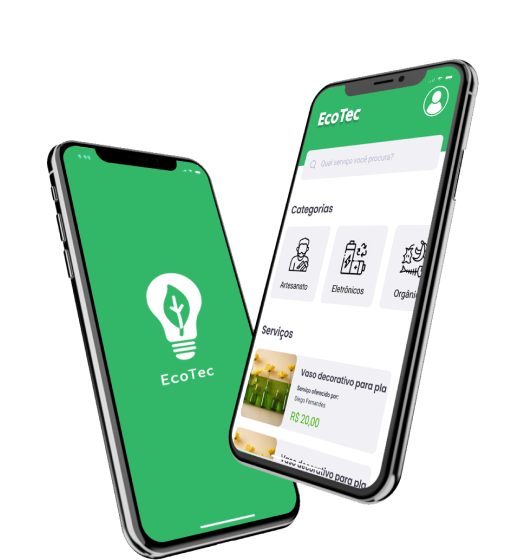
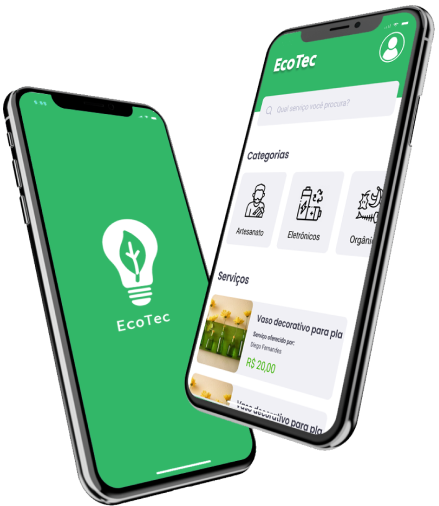
responsividade do site

diff --git a/EcoTecWebPage/index.html b/EcoTecWebPage/index.html
@@ -12,45 +12,50 @@
 
   <body>
     <div class="container">
-      <header class="header">
-        <img class="greenwaveImg" src="./images/greenwave.png" alt="greenwave-img" />
-        <img class="appImg" src="./images/appimage.png" alt="appWorking-img" />
-        <div class="firstDiv">
-          <img class="lampImg" src="./images/lamp.png" alt="lamp-img" />
-          <h1 class="nameApp">EcoTec</h1>
-        </div>
-        <p class="descriptionApp">Sustentabilidade e transformação social</p>
-        <p class="instructionApp">Baixe o aplicativo e conheça um imenso catálogo de produtos recicláveis!</p>
-        <img class="platformAvaiable" src="./images/playapplestore.png" alt="platformsAvaiable-img" />
-      </header>
-      <section>
-        <div class="mainContent">
-          <div class="contentSection">
-            <div class="card">
-              <img src="./images/maosdadas.png" alt="maosDadas-img" class="cardImg item1" />
-              <h1 class="cardTitle">Pessoas precisam de você!</h1>
-              <p class="cardDescription">
-                O EcoTec está comprometido com um viés de transformação social, em nosso aplicativo destacamos onde você pode encontrar pessoas em situação de vulnerabilidade social que não tem acesso
-                à internet e tecnologias.
-              </p>
+      <header>
+        <div class="left-column">
+          <div class="lampNtitleNsubtitle">
+            <div class="lampNtitle">
+              <img class="lampImg" src="./images/lamp.png" alt="lamp-img" />
+              <h1 class="title">EcoTec</h1>
             </div>
-            <div class="card">
-              <img src="./images/maorecicla.png" alt="maosquereciclam-img" class="cardImg" />
-              <h1 class="cardTitle">Você faz reciclagem?</h1>
-              <p class="cardDescription">
-                Nosso aplicativo é uma plataforma que ajuda a dar visibilidade ao trabalho de artesãos e catadores que realizam trabalham com o reaproveitamento de materiais. Baixe nosso aplicativo e
-                faça seu cadastro agota mesmo!
-              </p>
-            </div>
-            <div class="card">
-              <img src="./images/recicla.png" alt="reciclagem-img" class="cardImg item1" />
-              <h1 class="cardTitle">Encontre produtos incríveis!</h1>
-              <p class="cardDescription">
-                Se você procura uma forma de reutizar seus materiais nosso app pode te ajudar a encontrar uma pessoa capaz de criar algo incrivel! Você também pode ajudar quem mais precisa de você, é
-                só baixar o nosso app e dar uma olhado no catálogo.
-              </p>
+            <div class="subtitle">
+              <p class="descriptionApp">Sustentabilidade e transformação social</p>
             </div>
           </div>
+          <div class="instructionNplatformImg">
+            <p class="instructionApp">Baixe o aplicativo e conheça um imenso catálogo de produtos recicláveis!</p>
+            <img class="platformImg" src="./images/playstore.png" alt="platformAvaiable-img" />
+          </div>
+        </div>
+        <div class="right-column">
+          <img class="appImg" src="./images/appimage.png" alt="app-img" />
+        </div>
+      </header>
+      <section>
+        <div class="card">
+          <img src="./images/maosdadas.png" alt="maosDadas-img" class="cardImg item1" />
+          <h1 class="cardTitle">Pessoas precisam de você!</h1>
+          <p class="cardDescription">
+            O EcoTec está comprometido com um viés de transformação social, em nosso aplicativo destacamos onde você pode encontrar pessoas em situação de vulnerabilidade social que não tem acesso à
+            internet e tecnologias.
+          </p>
+        </div>
+        <div class="card">
+          <img src="./images/maorecicla.png" alt="maosquereciclam-img" class="cardImg" />
+          <h1 class="cardTitle">Você faz reciclagem?</h1>
+          <p class="cardDescription">
+            Nosso aplicativo é uma plataforma que ajuda a dar visibilidade ao trabalho de artesãos e catadores que realizam trabalham com o reaproveitamento de materiais. Baixe nosso aplicativo e faça
+            seu cadastro agota mesmo!
+          </p>
+        </div>
+        <div class="card">
+          <img src="./images/recicla.png" alt="reciclagem-img" class="cardImg item1" />
+          <h1 class="cardTitle">Encontre produtos incríveis!</h1>
+          <p class="cardDescription">
+            Se você procura uma forma de reutizar seus materiais nosso app pode te ajudar a encontrar uma pessoa capaz de criar algo incrivel! Você também pode ajudar quem mais precisa de você, é só
+            baixar o nosso app e dar uma olhado no catálogo.
+          </p>
         </div>
       </section>
       <footer class="footer">

diff --git a/EcoTecWebPage/style.css b/EcoTecWebPage/style.css
@@ -3,121 +3,134 @@
   padding: 0;
   box-sizing: border-box;
 }
-.header {
-  position: relative;
+header {
   width: 100%;
+  background-color: #289253;
+  display: flex;
+  flex-direction: row;
+  flex-wrap: wrap;
+  justify-content: center;
+  align-items: center;
+}
+.left-column {
+  width: 50%;
+  min-width: 280px;
   height: 600px;
-  background-color: #32b768;
-}
-.greenwaveImg {
-  width: 950px;
-  height: 600px;
-  position: absolute;
-  right: 0px;
-}
-.appImg {
-  width: 525px;
-  height: 562px;
-  position: absolute;
-  right: 40px;
-  bottom: 60px;
-}
-.nameApp {
-  font-family: "Roboto", sans-serif;
-  font-weight: 700 bold;
-  font-size: 64px;
-  color: #ffffff;
+  display: flex;
+  flex-direction: column;
+  row-gap: 120px;
+  justify-content: center;
+  align-items: center;
 }
 .lampImg {
   width: 75px;
   height: 76px;
+  margin-right: 10px;
 }
-.descriptionApp {
-  position: absolute;
-  top: 198px;
-  left: 162px;
-  padding-left: 30px;
+.title {
   font-family: "Roboto", sans-serif;
-  font-size: 20px;
+  font-weight: 700 bold;
+  font-size: 3.8em;
   color: #ffffff;
 }
-.firstDiv {
-  position: absolute;
-  top: 113px;
-  left: 215px;
-  display: flex;
-  flex-direction: row;
-}
-.instructionApp {
-  width: 417px;
-  height: 51px;
-  position: absolute;
-  top: 323px;
-  left: 157px;
+.subtitle {
   font-family: "Roboto", sans-serif;
   font-size: 20px;
   color: #ffffff;
   text-align: center;
 }
-.platformAvaiable {
-  width: 250px;
-  height: 153px;
-  position: absolute;
-  top: 400px;
-  left: 240px;
-}
-.mainContent {
-  margin-top: 30px;
+.lampNtitle {
   display: flex;
-  justify-content: center;
+  flex-direction: row;
 }
-.contentSection {
-  display: grid;
-  gap: 30px;
-  grid-template-columns: 1fr 1fr 1fr;
+.lampNtitleNsubtitle {
+  min-width: 280px;
+  display: flex;
+  flex-direction: column;
+  justify-content: center;
+  align-items: center;
+  row-gap: 0.9375rem;
+  /* 0.9375rem = 15px */
+}
+.instructionApp {
+  max-width: 425px;
+  font-family: "Roboto", sans-serif;
+  font-size: 20px;
+  color: #ffffff;
+  text-align: center;
+}
+.platformImg {
+  width: 193px;
+  height: 61px;
+}
+.instructionNplatformImg {
+  display: flex;
+  flex-direction: column;
+  justify-content: center;
+  align-items: center;
+  row-gap: 5px;
+}
+.right-column {
+  width: 50%;
+  min-width: 280px;
+  height: 37.5rem;
+  display: flex;
+  flex-direction: column;
+  justify-content: center;
+  align-items: flex-end;
+  padding-right: 6%;
+  background-image: url("./images/greenwave.png");
+  background-position: right;
+}
+.appImg {
+  max-width: 432px;
+  min-width: 280px;
+  width: 70%;
+}
+section {
+  display: flex;
+  flex-wrap: wrap;
+  justify-content: center;
+  margin-top: 30px;
+  gap: 25px;
 }
 .card {
   background-color: #f0f0f5;
   box-shadow: rgba(50, 50, 93, 0.25) 0px 6px 12px -2px, rgba(0, 0, 0, 0.3) 0px 3px 7px -3px;
-  width: 432px;
-  height: 320px;
+  min-width: 260px;
+  max-width: 432px;
+  display: flex;
+  flex-direction: column;
   padding: 15px;
+  margin: 10px;
 }
-.cardImage {
+.cardImg {
   width: 100%;
-  height: 170px;
-}
-.item1 {
-  width: 100%;
-  padding-right: -1px;
-}
-.item2 {
-  width: 100%;
-  padding-right: 15px;
+  height: 45%;
 }
 .cardTitle {
-  display: flex;
-  justify-content: flex-start;
   font-family: "Roboto", sans-serif;
+  text-align: center;
   font-weight: bold;
   color: #207342;
   margin-top: 5px;
-  padding-left: 20px;
 }
 .cardDescription {
-  width: 380px;
-  height: 90px;
+  width: 100%;
   font-weight: 400;
   line-height: 17.58px;
-  display: flex;
   text-align: justify;
   font-family: "Roboto", sans-serif;
   font-size: 15px;
   margin-top: 5px;
-  padding-left: 20px;
   letter-spacing: 0.2px;
 }
 footer {
+  display: flex;
+  justify-content: center;
+  align-items: center;
+  flex-wrap: wrap;
+  text-align: center;
   width: 100%;
   height: 44px;
   margin-top: 40px;
@@ -125,7 +138,34 @@ footer {
   font-family: "Roboto", sans-serif;
   font-size: 14px;
   line-height: 16.41px;
-  display: flex;
-  justify-content: center;
-  align-items: center;
+}
+@media (max-width: 680px) {
+  header {
+    flex-direction: column;
+  }
+  .left-column {
+    gap: 70px;
+    margin-top: 50px;
+    height: 400px;
+  }
+  .right-column {
+    padding-right: 0;
+    align-items: center;
+    height: 400px;
+    margin-top: 50px;
+  }
+  .lampNtitle {
+    display: flex;
+    flex-direction: column;
+    align-items: center;
+    gap: 10px;
+  }
+  .lampImg {
+    margin-right: 0;
+  }
+}
+@media (max-width: 1325px) {
+  .right-column {
+    background-image: none;
+  }
 }
